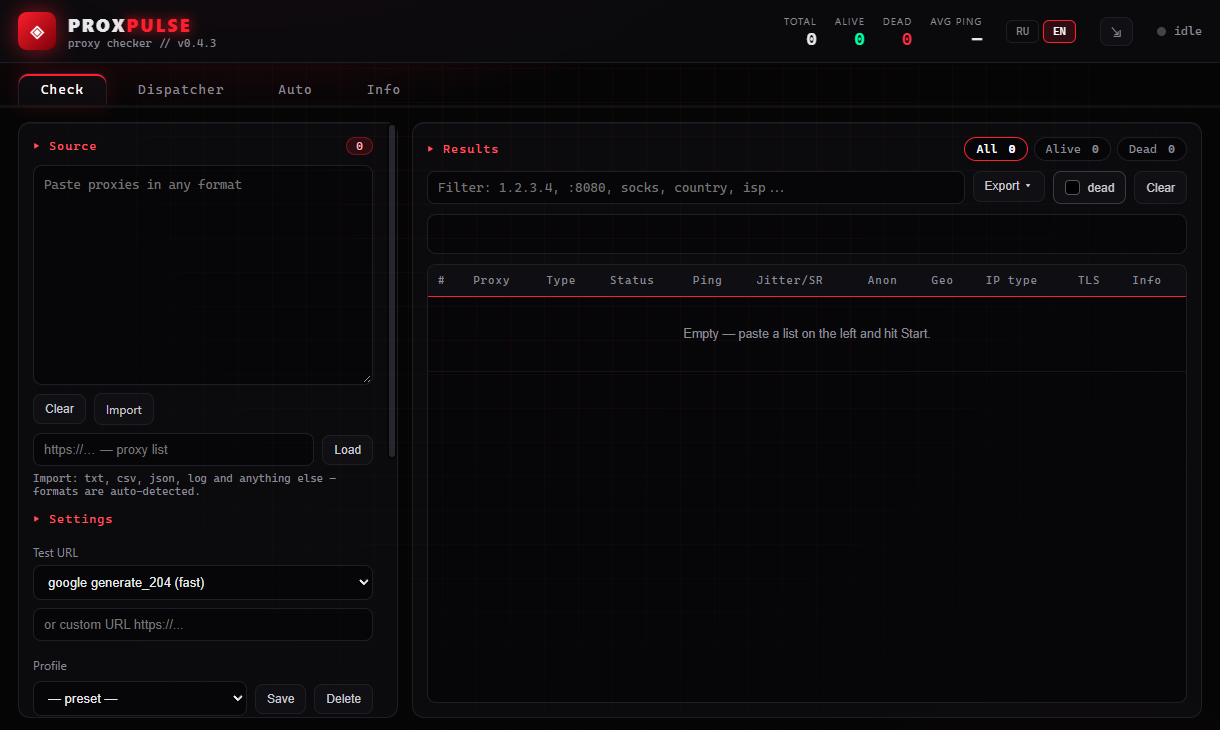
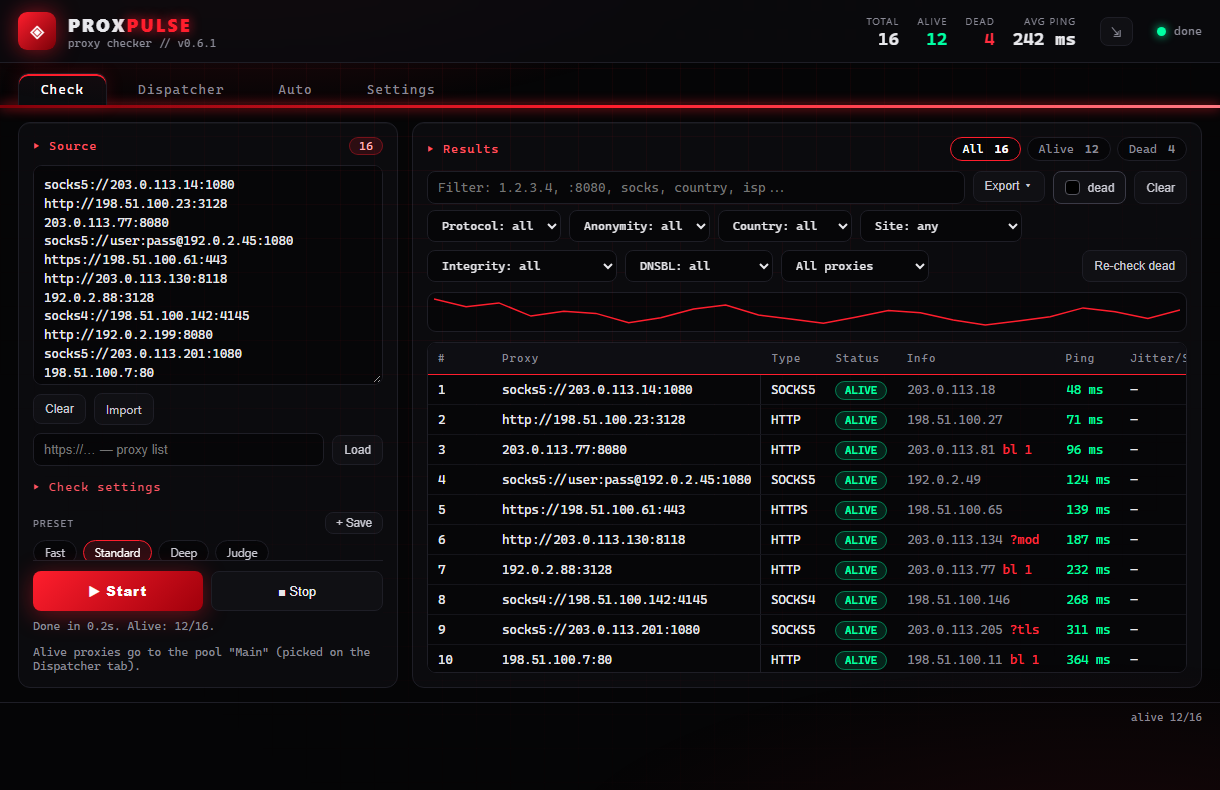
docs: screenshots of the current interface; a demo backend to retake them
The only screenshot showed 0.4.3 with an empty table and a tab that no
longer exists. The Check and Dispatcher tabs are now shown as they are,
in both languages, with sample data (documentation addresses only).

They come from `npm run demo`: the real frontend served with a stand-in
for the Tauri backend (scripts/demo), which also lets the interface be
worked on without building the Rust side. CONTRIBUTING says how to
retake them.

diff --git a/scripts/demo/mock-tauri.js b/scripts/demo/mock-tauri.js
@@ -1,0 +1,174 @@
+// A stand-in for the Tauri backend: `npm run demo` serves the real frontend
+// with it, for interface work without the Rust side and for the README
+// screenshots. It answers the commands the page calls with sample data;
+// every address is from the documentation ranges (RFC 5737).
+//
+// ?demo=check | progress | dispatch | auto picks a scene, ?lang=ru | en the
+// language.
+import pkg from "../../package.json";
+
+const params = new URLSearchParams(location.search);
+const demo = params.get("demo") ?? "";
+const lang = params.get("lang");
+if (lang) localStorage.setItem("pp-lang", lang);
+if (params.get("theme")) localStorage.setItem("pp-theme", params.get("theme"));
+
+// Earlier checks, so the ping graph has a line to draw.
+localStorage.setItem("pp-pinghist", JSON.stringify(
+  [262, 248, 255, 231, 240, 236, 219, 228, 244, 251, 233, 226, 218, 229, 241, 237, 224, 215, 222, 230, 246, 239, 227]
+    .map((avg, i) => ({ t: Date.now() - (24 - i) * 1800000, avg, alive: 9 + (i % 4) })),
+));
+
+const callbacks = new Map();
+let nextId = 1;
+const listeners = new Map();
+
+const now = Math.floor(Date.now() / 1000);
+const GEO = [
+  ["DE", "Germany", "Frankfurt am Main", "Example Hosting GmbH", "AS64500", "hosting"],
+  ["NL", "Netherlands", "Amsterdam", "Example Cloud B.V.", "AS64501", "hosting"],
+  ["US", "United States", "Ashburn", "Example Networks LLC", "AS64502", "hosting"],
+  ["FR", "France", "Paris", "Exemple Telecom", "AS64503", "residential/isp"],
+  ["FI", "Finland", "Helsinki", "Example Oy", "AS64504", "hosting"],
+  ["PL", "Poland", "Warsaw", "Example Mobile", "AS64505", "mobile"],
+  ["SG", "Singapore", "Singapore", "Example Pte Ltd", "AS64506", "hosting"],
+  ["JP", "Japan", "Tokyo", "Example KK", "AS64507", "residential/isp"],
+];
+const LINES = [
+  "socks5://203.0.113.14:1080", "http://198.51.100.23:3128", "203.0.113.77:8080",
+  "socks5://user:pass@192.0.2.45:1080", "https://198.51.100.61:443", "http://203.0.113.130:8118",
+  "192.0.2.88:3128", "socks4://198.51.100.142:4145", "http://192.0.2.199:8080",
+  "socks5://203.0.113.201:1080", "198.51.100.7:80", "http://192.0.2.12:8888",
+  "socks5://198.51.100.99:1080", "203.0.113.5:3128", "http://198.51.100.180:8080",
+  "192.0.2.150:1080",
+];
+const DEAD = { 8: "timeout", 11: "connection refused", 13: "proxy auth required", 15: "http 502" };
+const ANON = ["elite", "elite", "anonymous", "elite", "elite", "transparent", "anonymous", "elite"];
+const LAT = [48, 71, 96, 124, 139, 187, 232, 268, 0, 311, 364, 0, 455, 0, 612, 0];
+
+function result(line, i) {
+  const scheme = line.includes("://") ? line.split("://")[0] : "http";
+  const url = line.includes("://") ? line : `http://${line}`;
+  const proto = scheme.toUpperCase();
+  const base = {
+    proxy: line, url, proto, alive: false, latency_ms: null, jitter_ms: null, success_rate: 0, attempts: 1,
+    ip: null, country: null, country_code: null, city: null, isp: null, org: null, asn: null, ip_type: null,
+    anonymity: null, tamper: null, tls: null, tls_info: null, error: null, skipped: [], sites: [],
+  };
+  if (DEAD[i]) return { ...base, error: DEAD[i] };
+  const g = GEO[i % GEO.length];
+  const host = url.split("://")[1].split("@").pop().split(":")[0];
+  const exit = i === 6 ? "203.0.113.77" : host.replace(/\.(\d+)$/, (_, d) => `.${(Number(d) + 3) % 250 + 1}`);
+  return {
+    ...base, alive: true, latency_ms: LAT[i], jitter_ms: 4 + (i * 7) % 23, success_rate: 1, attempts: 1,
+    ip: exit, country: g[1], country_code: g[0], city: g[2], isp: g[3], org: g[3], asn: g[4], ip_type: g[5],
+    anonymity: ANON[i % ANON.length],
+    tamper: i === 5 ? "modified" : i === 12 ? "unverified" : "ok",
+    tls: i === 9 ? "modified" : "ok",
+    tls_info: "CN=example.com, issuer Example CA",
+    sites: [
+      { url: "https://www.google.com", ok: true, ms: LAT[i] + 60, status: 200, error: null },
+      { url: "https://www.youtube.com", ok: i % 5 !== 3, ms: i % 5 !== 3 ? LAT[i] + 90 : null, status: i % 5 !== 3 ? 200 : 403, error: i % 5 !== 3 ? null : "http 403" },
+    ],
+    dnsbl: i % 4 === 2 ? { listed: ["Spamhaus ZEN"], unknown: [] } : { listed: [], unknown: [] },
+  };
+}
+
+const poolItems = () => LINES.map(result).filter((r) => r.alive).map((r) => ({
+  raw: r.proxy, url: r.url, latency: r.latency_ms, country: r.country_code,
+}));
+let pool = demo === "dispatch" || demo === "auto" ? poolItems() : [];
+const prefs = {
+  closeToTray: true, startMinimized: true, startDispatcher: true,
+  dispatcher: { port: 1080, mode: "round-robin", listener: "both", options: { countries: ["DE", "NL"], stickyMin: 10, authUser: "", authPass: "" } },
+  poolDispatchers: {}, poolApi: { enabled: true, port: 1090 },
+};
+const dispatching = demo === "dispatch";
+
+function emit(event, payload) {
+  for (const id of listeners.get(event) ?? []) callbacks.get(id)?.({ event, id, payload });
+}
+
+const handlers = {
+  "plugin:event|listen": ({ event, handler }) => {
+    listeners.set(event, [...(listeners.get(event) ?? []), handler]);
+    return handler;
+  },
+  "plugin:event|unlisten": () => null,
+  app_version: () => pkg.version,
+  install_kind: () => "nsis",
+  get_app_prefs: () => prefs,
+  set_app_prefs: ({ prefs: p }) => Object.assign(prefs, p),
+  autostart_enabled: () => true,
+  set_autostart: () => null,
+  check_busy: () => false,
+  cancel_check: () => null,
+  list_pools: () => [{ id: "main", name: "" }, { id: "p1", name: "Scraping" }, { id: "p2", name: "Work" }],
+  get_dispatch_pool: () => pool,
+  set_dispatch_pool: ({ items }) => { pool = items ?? []; return pool.length; },
+  set_dispatch_options: () => null,
+  set_auto_config: () => null,
+  update_tray_status: () => null,
+  history_size: () => 148,
+  pool_api_status: () => ({ running: true, port: 1090, error: null }),
+  start_pool_api: () => 1090,
+  local_proxy_status: () => ({
+    running: dispatching, port: 1080, mode: "round-robin", listener: "both", upstreams: pool.length,
+    cooling: dispatching ? 1 : 0, current: dispatching ? "socks5://203.0.113.14:1080" : null,
+    requests: dispatching ? 18432 : 0, errors: dispatching ? 37 : 0, last_error: null,
+  }),
+  proxy_history: ({ urls }) => Object.fromEntries(urls.map((u, i) => [u, {
+    checks: 12 + (i % 9), alive: 12 + (i % 9) - (i % 4), uptime: 1 - (i % 4) / (12 + (i % 9)),
+    score: 0.9 - (i % 4) * 0.07, lastAlive: now - 600 * (i + 1), lastCheck: now - 300, avgMs: 60 + i * 31,
+  }])),
+  parse_proxy_text: ({ text, wantList }) => {
+    const list = text.split(/\r?\n/).map((l) => l.trim()).filter(Boolean);
+    return { count: list.length, truncated: false, list: wantList ? list : null };
+  },
+  check_proxies: async ({ proxies, onResult }) => {
+    const send = callbacks.get(onResult.id);
+    let index = 0;
+    for (const [i, line] of proxies.entries()) {
+      await new Promise((r) => setTimeout(r, demo === "progress" ? 400 : 15));
+      send({ message: { kind: "result", ...result(line, LINES.indexOf(line) >= 0 ? LINES.indexOf(line) : i) }, index: index++ });
+    }
+    send({ message: { kind: "done" }, index: index++ });
+    send({ end: true, index });
+  },
+};
+
+window.__TAURI_INTERNALS__ = {
+  transformCallback(cb) {
+    const id = nextId++;
+    callbacks.set(id, cb);
+    return id;
+  },
+  unregisterCallback: (id) => callbacks.delete(id),
+  convertFileSrc: (p) => p,
+  metadata: { currentWindow: { label: "main" }, currentWebview: { label: "main" } },
+  invoke: async (cmd, args) => {
+    if (!(cmd in handlers)) throw new Error(`demo backend: no ${cmd}`);
+    return handlers[cmd](args ?? {});
+  },
+};
+window.__TAURI_EVENT_PLUGIN_INTERNALS__ = { unregisterListener: () => {} };
+window.__DEMO__ = { emit, LINES };
+
+// The scenes the screenshots show.
+window.addEventListener("load", () => setTimeout(async () => {
+  const $ = (id) => document.getElementById(id);
+  const tab = (name) => document.querySelector(`.tab[data-tab="${name}"]`)?.click();
+  if (demo === "check" || demo === "progress") {
+    const input = $("proxy-input");
+    input.value = LINES.join("\n");
+    input.dispatchEvent(new Event("input", { bubbles: true }));
+    await new Promise((r) => setTimeout(r, 400));
+    $("btn-start").click();
+  } else if (demo === "dispatch") {
+    tab("dispatch");
+  } else if (demo === "auto") {
+    tab("auto");
+    emit("auto://status", { pool: "main", state: "running", done: 9, alive: 0, total: 12, avgMs: null, error: null, at: now });
+  }
+  document.documentElement.dataset.demoReady = "1";
+}, 300));

diff --git a/eslint.config.js b/eslint.config.js
@@ -18,6 +18,16 @@ export default defineConfig(
   {
     // Release and version scripts run on Node.
     files: ["scripts/**/*.mjs"],
-    languageOptions: { globals: { process: "readonly", console: "readonly" } },
+    languageOptions: { globals: { process: "readonly", console: "readonly", URL: "readonly" } },
+  },
+  {
+    // The demo backend runs in the page.
+    files: ["scripts/demo/**/*.js"],
+    languageOptions: {
+      globals: {
+        window: "readonly", document: "readonly", location: "readonly", localStorage: "readonly",
+        URLSearchParams: "readonly", setTimeout: "readonly", Event: "readonly",
+      },
+    },
   },
 );

diff --git a/CONTRIBUTING.md b/CONTRIBUTING.md
@@ -79,9 +79,29 @@ src-tauri/src/judge_sig.rs          # judge answer signatures
 src-tauri/src/baseline.rs           # direct measurements a run compares answers with
 src-tauri/src/tests/*.rs            # backend tests
 scripts/*.mjs                       # version check, release description
+scripts/demo/                       # sample backend for `npm run demo` and screenshots
 .github/workflows/ci.yml            # checks on every push and PR
 .github/workflows/release.yml       # tagged release builds
 ```
+
+### Interface work and screenshots
+
+`npm run demo` serves the real frontend on `http://127.0.0.1:1430` with a
+sample backend (`scripts/demo/mock-tauri.js`, documentation addresses only),
+so the interface can be worked on and looked at without building the Rust
+side. `?demo=check`, `progress`, `dispatch` or `auto` picks a scene and
+`?lang=ru` or `en` the language.
+
+The screenshots in `docs/screenshots` are those scenes at the default window
+size, taken with a headless browser, for example:
+
+```sh
+msedge --headless=new --hide-scrollbars --window-size=1220,790 --virtual-time-budget=8000 \
+  --screenshot=docs/screenshots/main-en.png "http://127.0.0.1:1430/?demo=check&lang=en"
+```
+
+Retake `main-*` (`demo=check`) and `dispatcher-*` (`demo=dispatch`) in both
+languages when the interface changes visibly.
 
 ### Repository notes
 

diff --git a/docs/dispatcher.ru.md b/docs/dispatcher.ru.md
@@ -2,6 +2,8 @@
 
 [English](dispatcher.md) | **Русский**
 
+![Вкладка «Диспетчер»](screenshots/dispatcher-ru.png)
+
 Вкладка **Диспетчер** поднимает локальный прокси на `127.0.0.1:1080` (или
 следующем свободном порту) и направляет трафик через пул живых прокси. Один
 порт принимает HTTP и SOCKS5 (определяется по первому байту) или только

diff --git a/CHANGELOG.md b/CHANGELOG.md
@@ -73,6 +73,9 @@ All notable changes to ProxPulse. The format follows
 
 ### Changed
 
+- New screenshots of the Check and Dispatcher tabs in both languages, taken
+  from the current interface with sample data; `npm run demo` serves that
+  interface for development.
 - The README is half as long and starts with who the app is for and a link to
   the latest release, with a short FAQ. The check target, deep checks,
   results table, export, dispatcher, pool API, schedules, webhooks, settings

diff --git a/docs/dispatcher.md b/docs/dispatcher.md
@@ -2,6 +2,8 @@
 
 **English** | [Русский](dispatcher.ru.md)
 
+![The Dispatcher tab](screenshots/dispatcher-en.png)
+
 The **Dispatcher** tab serves a local proxy on `127.0.0.1:1080` (or the next
 free port) and routes traffic through the alive pool. One port accepts HTTP
 and SOCKS5 (detected from the first byte), or only the selected protocol.
